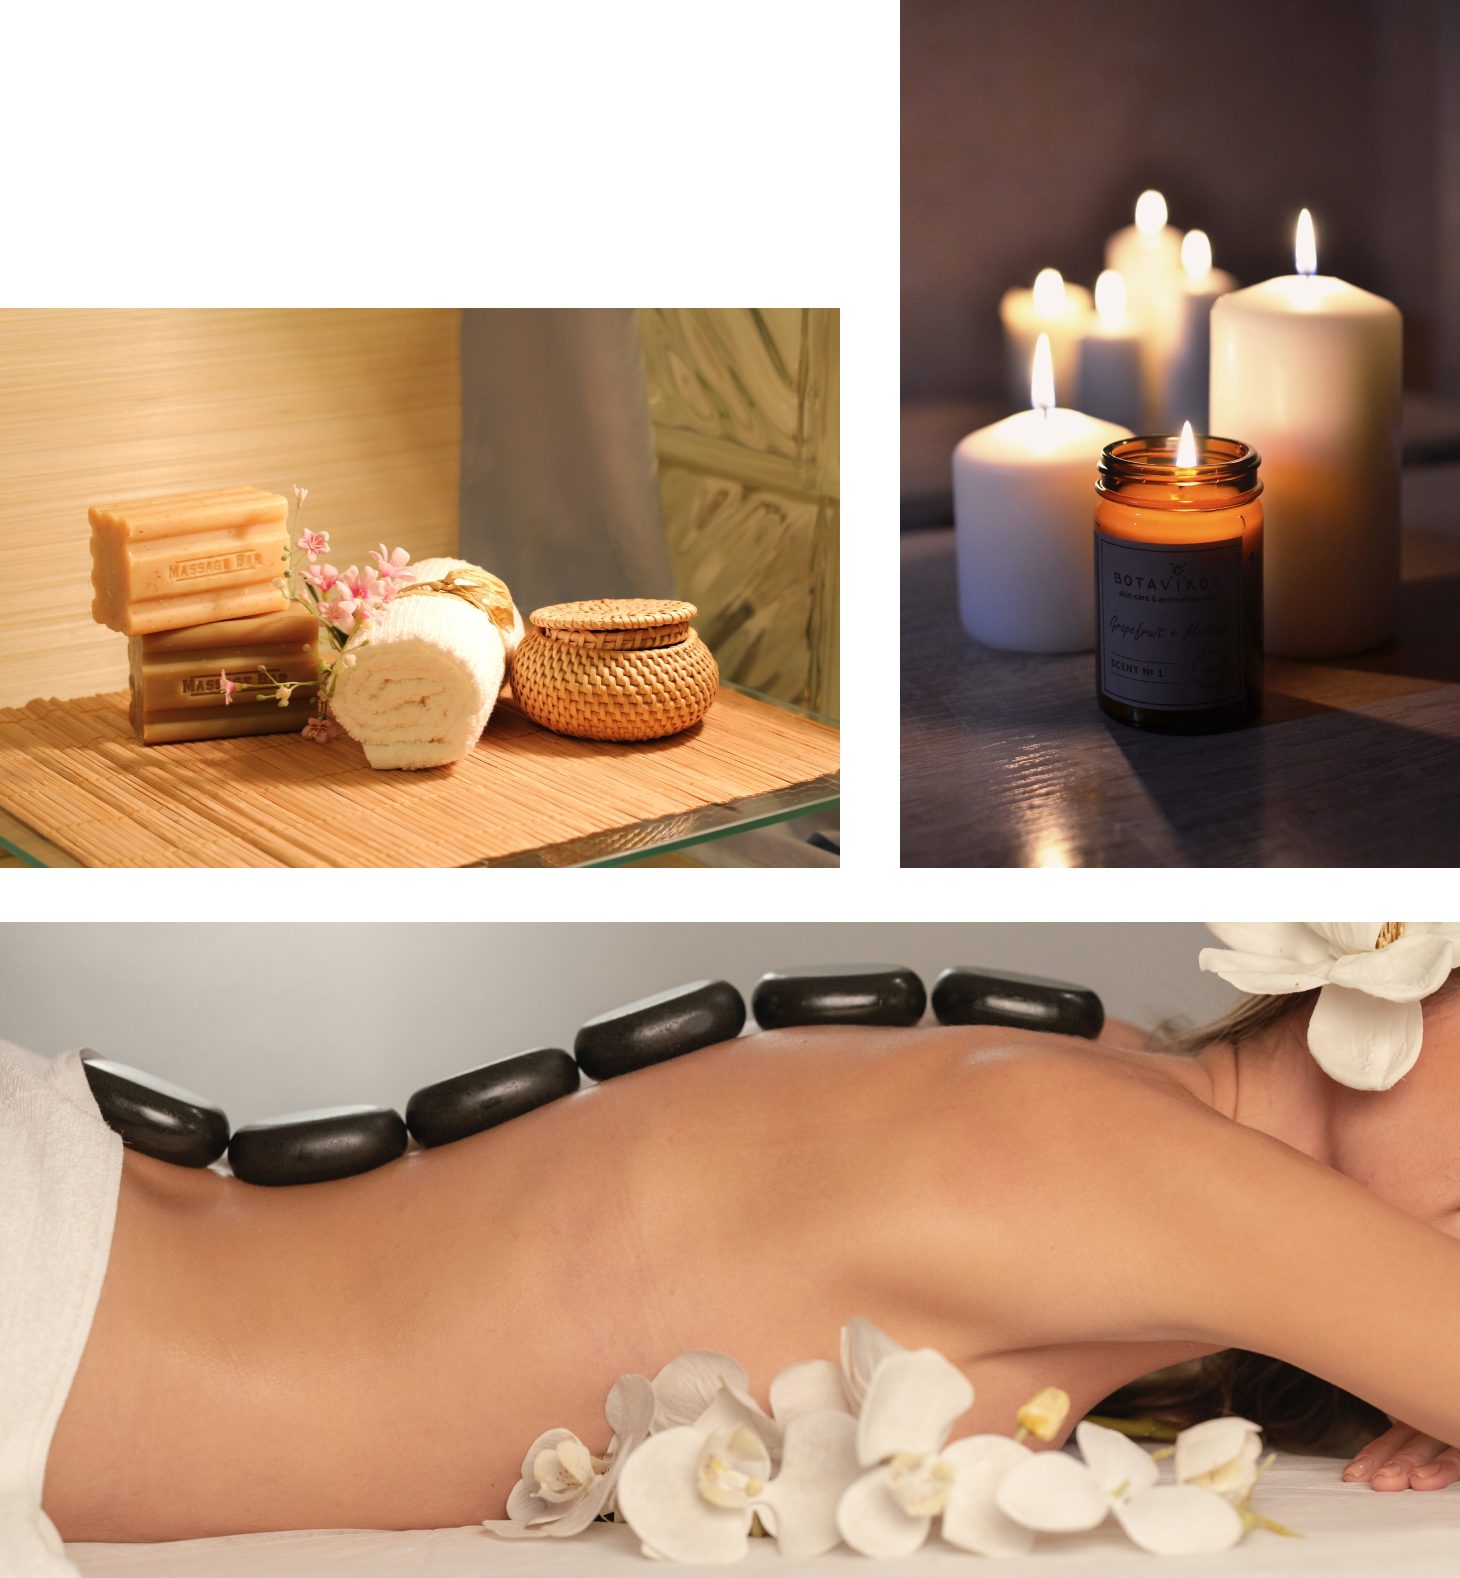
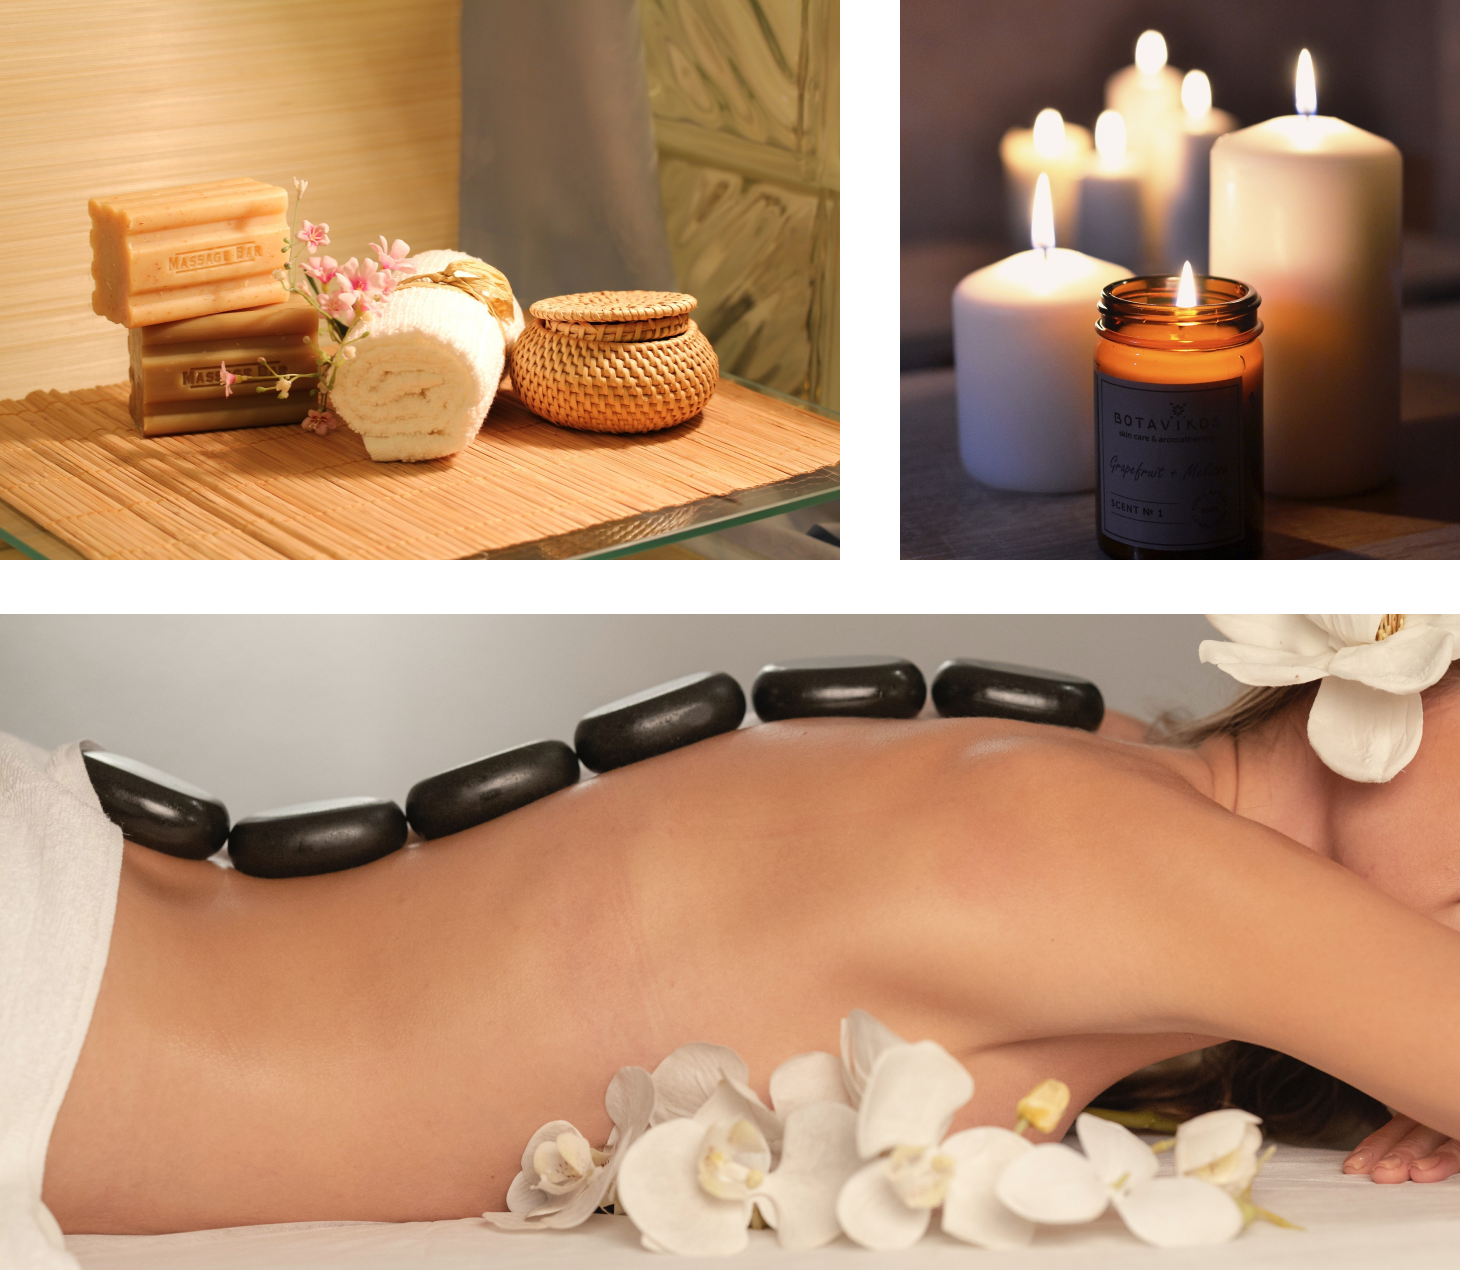
Adjust landing image

diff --git a/src/components/treatmentSection.js b/src/components/treatmentSection.js
@@ -47,13 +47,7 @@ function TreatmentSection() {
       >
         Available Services
       </OptimaType>
-      <Grid
-        container
-        direction="row"
-        display="flex"
-        justifyContent="center"
-        sx={{ backgroundColor: "" }}
-      >
+      <Grid container direction="row" display="flex" justifyContent="center">
         {massages.map((massage) => (
           <TreatmentCard {...massage} />
         ))}
@@ -66,12 +60,12 @@ function TreatmentCard(massage) {
   return (
     <GridItem item xs={12} sm={6} md={4} lg={3} xl={4} sx={{ margin: 3 }}>
       <StyledCard
-        sx={{ maxWidth: 345, minHeight: 300 }}
+        sx={{ maxWidth: 345, minHeight: "300px" }}
         style={{ transition: "all 0.5s ease-in-out" }}
       >
         <CardActionArea>
           <CardContent>
-            <Box width="100%" sx={{ backgroundColor: "brown" }}>
+            <Box width="100%" sx={{ backgroundColor: "white" }}>
               <img
                 src={massage.massageImage}
                 alt="Placeholder alt text"
@@ -84,7 +78,7 @@ function TreatmentCard(massage) {
               />
             </Box>
           </CardContent>
-          <CardContent sx={{ backgroundColor: "", height: "100%" }}>
+          <CardContent sx={{ height: "100%" }}>
             <OptimaType
               className="optima"
               gutterBottom

diff --git a/src/App.js b/src/App.js
@@ -30,6 +30,8 @@ function App() {
     & > * {
       padding-bottom: ${(props) => props.spacing}px;
     }
+    justify-content: center;
+    align-content: center;
   `;
 
   const ref1 = useRef(null);

diff --git a/src/components/aboutSection.js b/src/components/aboutSection.js
@@ -14,7 +14,6 @@ const AboutSection = forwardRef((props, ref) => {
     width: 100%;
     max-width: 1000px;
     margin-bottom: 2rem;
-    align-content: center;
   `;
 
   return (
